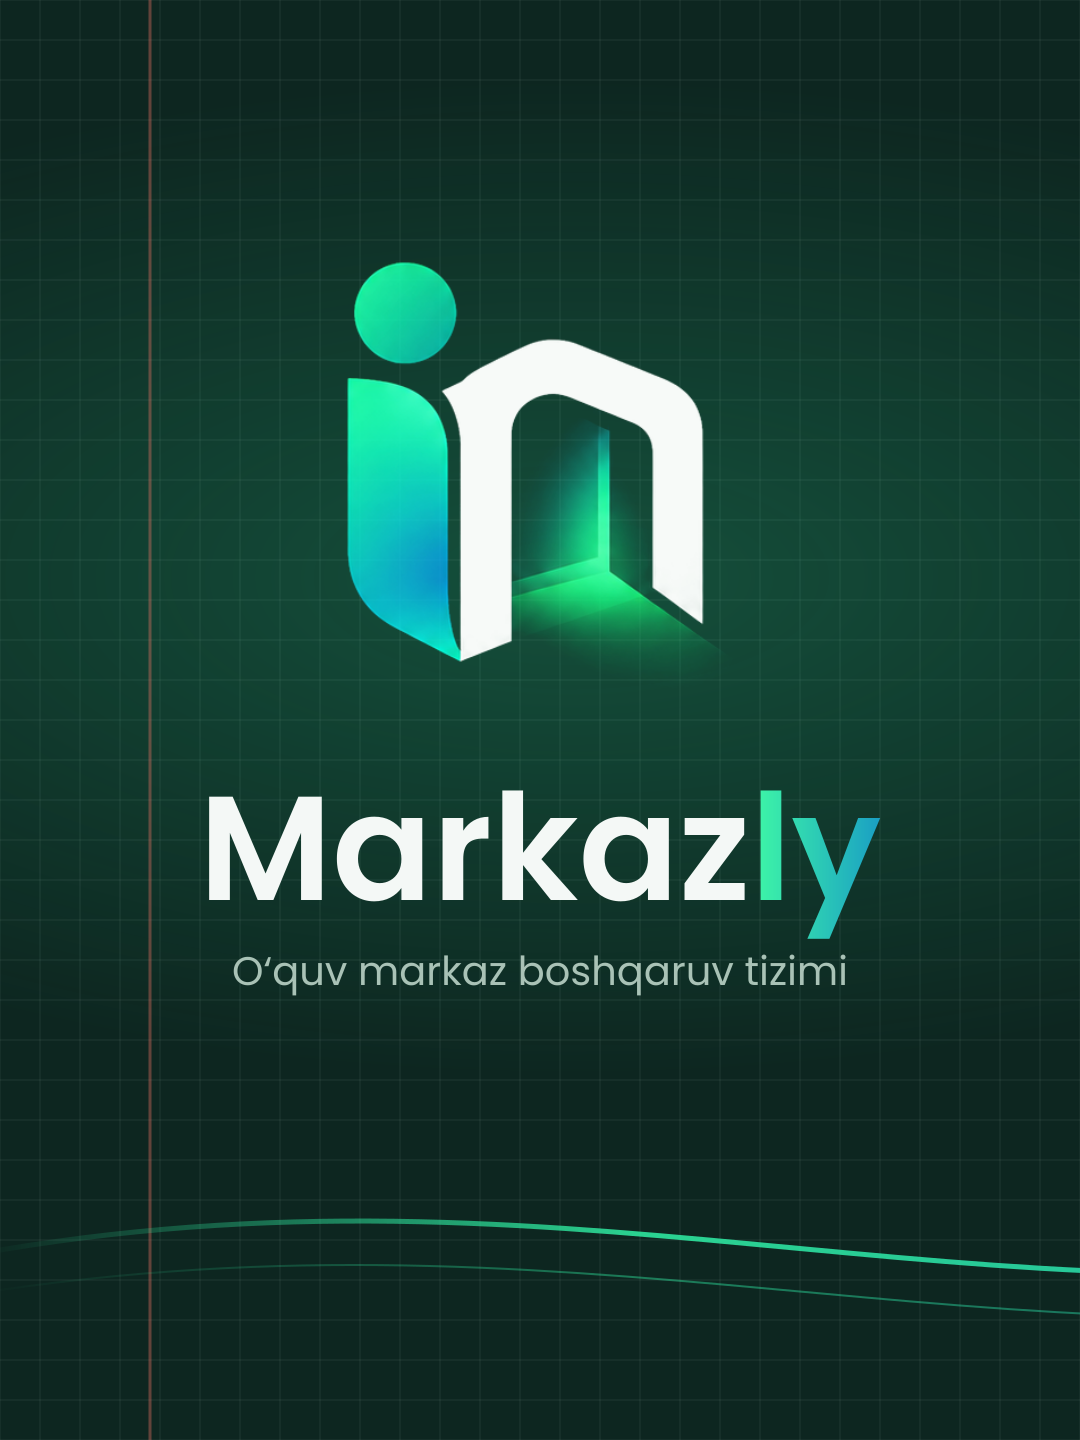
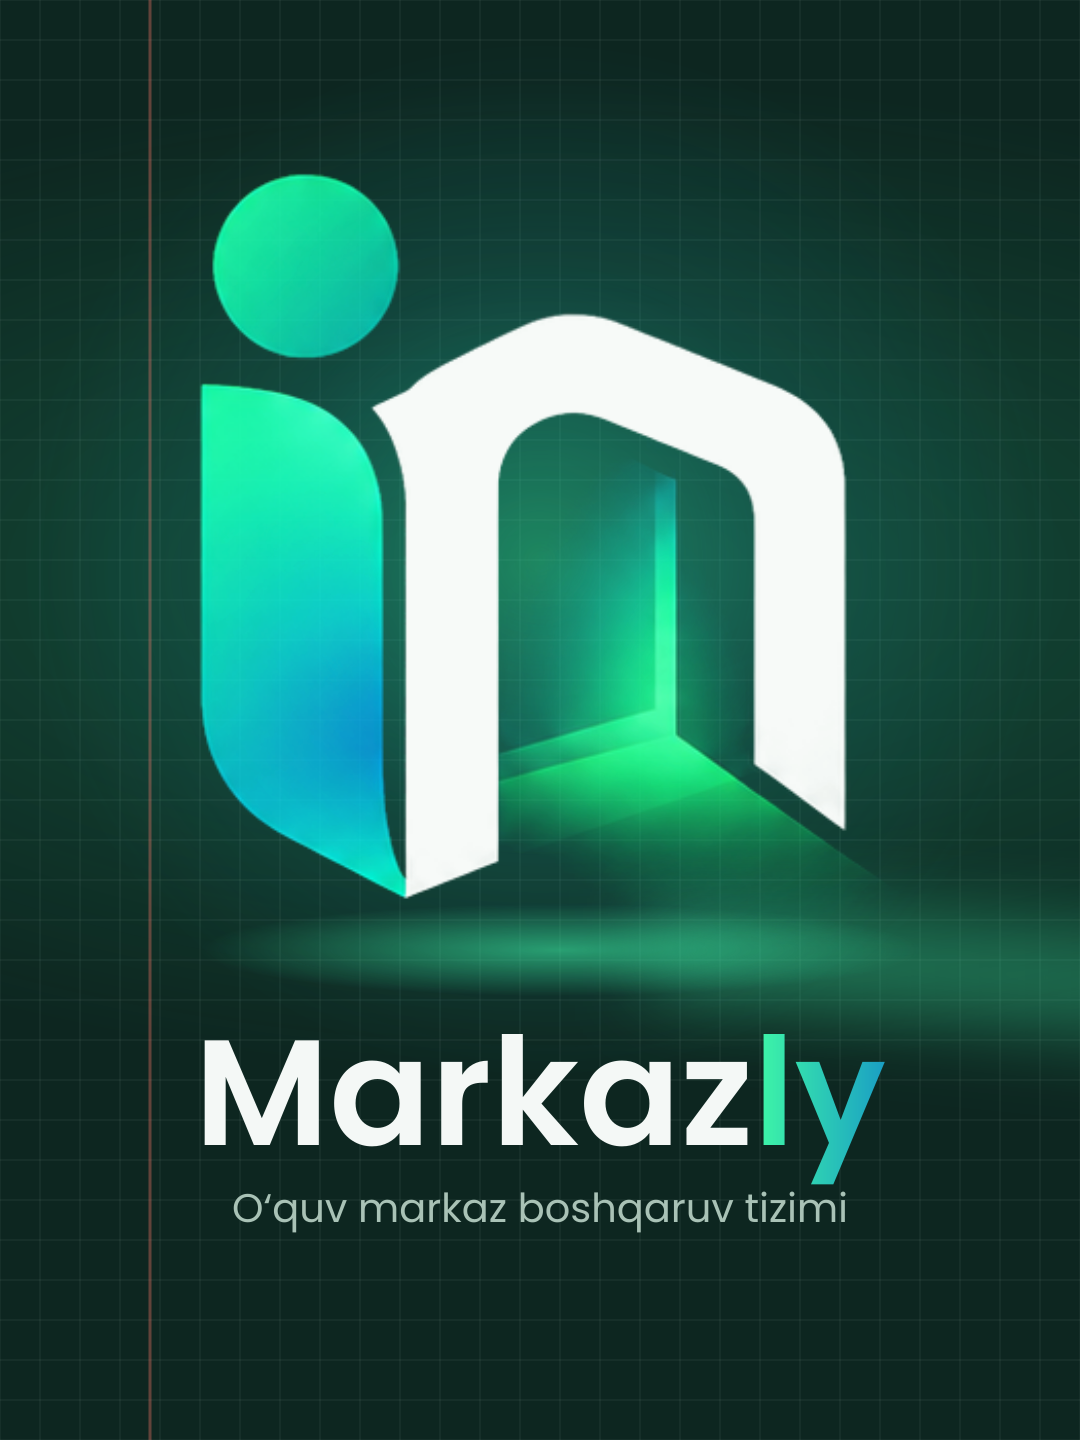
Instagram muqova: katta porlab turgan belgi va eshikdan chiqqan nur
Claude-Session: https://claude.ai/code/session_01FWUt8wnCS76XNeuVvzXBtM

Changed region(s): [[0.0917, 0.0938, 1.0, 0.875], [0.8556, 0.875, 1.0, 0.9062]]

diff --git a/brand/skriptlar/make_grid_cover.py b/brand/skriptlar/make_grid_cover.py
@@ -28,16 +28,22 @@ b = f'<rect width="{GW}" height="{GH}" fill="{BOARD}"/>{grid_lines}'
 b += f'<rect width="{GW}" height="{GH}" fill="url(#l1)"/><rect width="{GW}" height="{GH}" fill="url(#l3)"/>'
 # notebook margin line (left tile) and a light wave running through all three tiles
 b += f'<line x1="150" y1="0" x2="150" y2="{GH}" stroke="#FF7A6B" stroke-opacity=".35" stroke-width="3"/>'
-b += (f'<path d="M0 1250 C 600 1150, 1000 1350, 1620 1240 S 2700 1120, {GW} 1220" fill="none" stroke="url(#wave)" stroke-width="5" opacity=".9"/>'
-      f'<path d="M0 1290 C 620 1200, 1020 1390, 1620 1285 S 2700 1170, {GW} 1265" fill="none" stroke="url(#wave)" stroke-width="2" opacity=".45"/>')
-
-# ── tile 1: logo
-mh = 430; mw = mh * 342 / 377
-b += f'<image href="{MARK}" x="{540 - mw / 2:.1f}" y="260" width="{mw:.1f}" height="{mh}"/>'
-wsz = 148
+BG_LEN = len(b)
+# ── tile 1: big glowing mark; the door's light spills right across all three tiles
+b += ('<defs><radialGradient id="halo1" cx="50%" cy="50%" r="50%"><stop offset="0%" stop-color="#2EE59D" stop-opacity=".38"/>'
+      '<stop offset="55%" stop-color="#1FB5C8" stop-opacity=".10"/><stop offset="100%" stop-color="#1FB5C8" stop-opacity="0"/></radialGradient>'
+      '<linearGradient id="beam" x1="0" y1="0" x2="1" y2="0"><stop offset="0%" stop-color="#3CF2A8" stop-opacity=".45"/>'
+      '<stop offset="45%" stop-color="#2EE59D" stop-opacity=".16"/><stop offset="100%" stop-color="#1FB5C8" stop-opacity="0"/></linearGradient>'
+      '<filter id="soft" x="-20%" y="-60%" width="140%" height="220%"><feGaussianBlur stdDeviation="28"/></filter>'
+      '<radialGradient id="floor1" cx="50%" cy="50%" r="50%"><stop offset="0%" stop-color="#3CF2A8" stop-opacity=".55"/><stop offset="100%" stop-color="#3CF2A8" stop-opacity="0"/></radialGradient></defs>')
+b += '<circle cx="540" cy="560" r="520" fill="url(#halo1)"/>'
+b += '<ellipse cx="560" cy="950" rx="360" ry="46" fill="url(#floor1)"/>'
+mh = 780; mw = mh * 342 / 377
+b += f'<image href="{MARK}" x="{540 - mw / 2 + 10:.1f}" y="170" width="{mw:.1f}" height="{mh}"/>'
+wsz = 150
 w1 = SEMI.width("Markaz", wsz); w2 = SEMI.width("ly", wsz); wx = 540 - (w1 + w2) / 2
-b += T("Markaz", wx, 900, wsz, SEMI, FG) + T("ly", wx + w1, 900, wsz, SEMI, "url(#gh)")
-b += T("O‘quv markaz boshqaruv tizimi", 540, 985, 40, REG, MUTED, "middle")
+b += T("Markaz", wx, 1145, wsz, SEMI, FG) + T("ly", wx + w1, 1145, wsz, SEMI, "url(#gh)")
+b += T("O‘quv markaz boshqaruv tizimi", 540, 1222, 40, REG, MUTED, "middle")
 
 # ── tile 2: headline
 x2 = TW + 90
@@ -77,10 +83,25 @@ b += T("@markazly.uz", 2 * TW + 540, 1225, 36, MED, FG, "middle")
 b += rr(2 * TW + 40, 560, 330, 108, 24, FG) + rr(2 * TW + 60, 582, 64, 64, 18, MINT) + ic("check", 2 * TW + 76, 598, 32, INK, 3)
 b += T("To‘lov qabul", 2 * TW + 140, 610, 26, SEMI, INK) + T("590 000 so‘m", 2 * TW + 140, 646, 24, REG, "#3F5A4D")
 
-svg = f'<svg xmlns="http://www.w3.org/2000/svg" width="{GW}" height="{GH}" viewBox="0 0 {GW} {GH}">{defs}{b}</svg>'
+from PIL import ImageDraw, ImageFilter
+import io
+def render(body, transparent=False):
+    sv = f'<svg xmlns="http://www.w3.org/2000/svg" width="{GW}" height="{GH}" viewBox="0 0 {GW} {GH}">{defs}{body}</svg>'
+    return Image.open(io.BytesIO(cairosvg.svg2png(bytestring=sv.encode()))).convert("RGBA")
+bg_img = render(b[:BG_LEN])
+# soft light beam on the floor, from the door of the mark to the right edge (blurred, fading out)
+beam = Image.new("RGBA", (GW, GH), (0, 0, 0, 0))
+mask = Image.new("L", (GW, GH), 0)
+ImageDraw.Draw(mask).polygon([(650, 905), (GW, 1060), (GW, 1250), (650, 985)], fill=255)
+fade = Image.linear_gradient("L").rotate(90, expand=True).resize((GW, GH)).transpose(Image.FLIP_LEFT_RIGHT)  # 255 at left → 0 at right
+fade = fade.point(lambda v: int(v * 0.55))
+mask = Image.composite(fade, Image.new("L", (GW, GH), 0), mask).filter(ImageFilter.GaussianBlur(38))
+beam.paste((60, 242, 168, 255), (0, 0, GW, GH)); beam.putalpha(mask)
+bg_img = Image.alpha_composite(bg_img, beam)
+fg_img = render(b[BG_LEN:], True)
+full_img = Image.alpha_composite(bg_img, fg_img).convert("RGB")
 full = os.path.join(OUTG, "toliq_panorama.png")
-cairosvg.svg2png(bytestring=svg.encode(), write_to=full)
-
+full_img.save(full)
 im = Image.open(full).convert("RGB")
 names = ["1_chap", "2_orta", "3_ong"]
 for i, n in enumerate(names):
